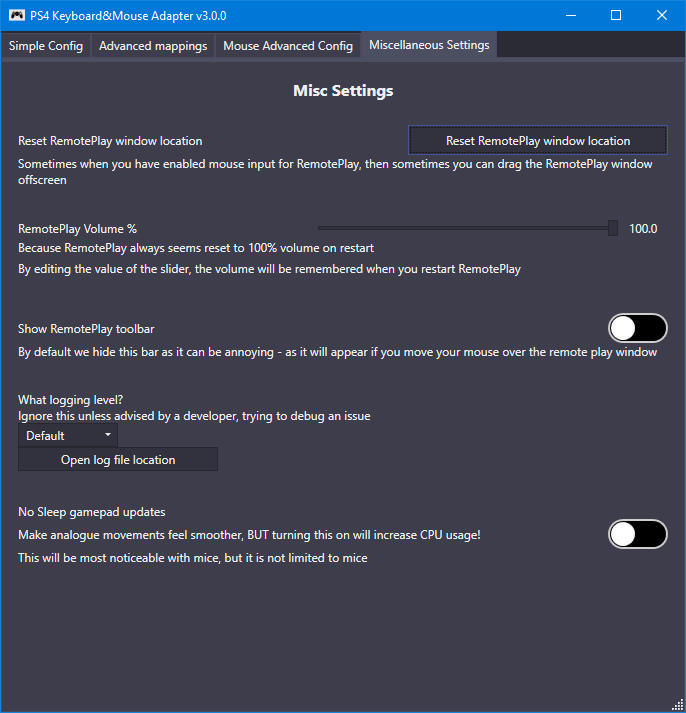
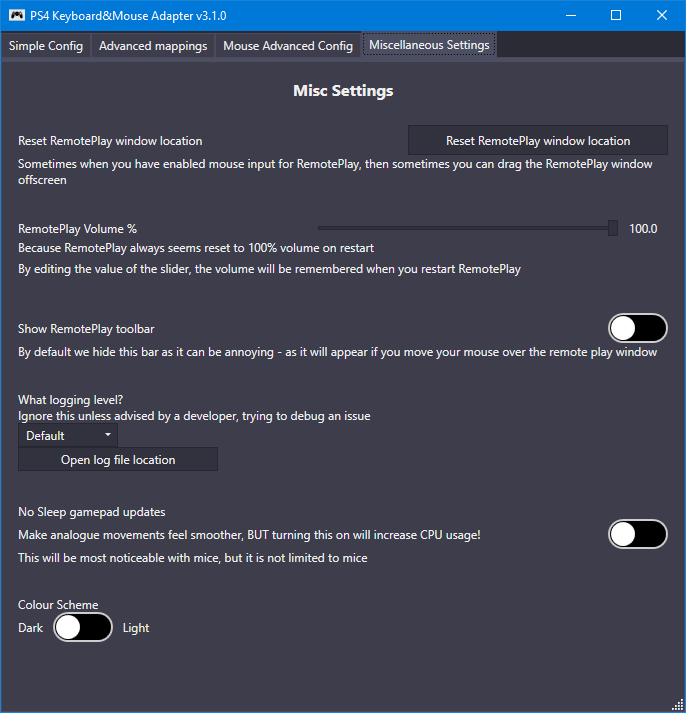
updating documentation

Changed region(s): [[0.0306, 0.8331, 0.2143, 0.9257]]

diff --git a/documentation/version-history.md b/documentation/version-history.md
@@ -1,6 +1,14 @@
 # Version History
 
 
+### v 3.1.0
+* Stuff users will appreciate
+  * Added "Colour Scheme" swapper (pick from Light mode or Dark mode). See "Miscellaneous Settings" tab
+
+* Under the hood stuff
+  * swapping c# dependency system from packages.config to PackageReference
+
+
 ### v 3.0.0
 * New method of controller emulation (ViGEm)
 
@@ -26,7 +34,7 @@
 
 
 ### v 2.2.1
-* Adding a second option for installing
+* Added a second option for installing
   * application-extract-me.zip
   * application-setup.exe
 
@@ -108,7 +116,7 @@
 * Added Keyboard mappings for right stick
 * Added mouse poll rate settings
 * Updated mouse anchoring logic so it is harder for you to click out of 'PS Remote Play' (still theoretically possible to click out of 'PS Remote Play', if you experience this issue try increasing the mouse poll rate, or file an issue). <br> We specifically recognise where 'PS Remote Play' window is and anchor to the centre of that - previously it was a random (not strictly random but it didn't have any obvious significance) point on your primary monitor
-* Added switches to let user set which stick takes input from the mouse.<br> You could technically have move sticks controlled by the mouse ... I WOULD NOT recommend both sticks bound to the mouse!
+* Added switches to let user set which stick takes input from the mouse.<br> You could technically have move both sticks controlled by the mouse ... I WOULD NOT recommend both sticks bound to the mouse!
 * Added more documentation
 * Lots of refactorings to make the code cleaner.
 

diff --git a/documentation/release-checklist.md b/documentation/release-checklist.md
@@ -1,8 +1,10 @@
 # Release checklist
 
 
-1. If you have updated any dependencies, then delete the packages folder and do a fresh build to check everything is ok.<br>
+1. Done a clean build ?<br>
  ` ./clean.sh ; ./build.sh `
+
+1. Does Debug still work?
 
 1. Have we enabled the auto update logic in ` AppUpdater.cs `
 
@@ -13,8 +15,6 @@
 1. Is this version number unique, and not previously released?
 
 1. Does the installer install to the version we expect?
-
-1. Does Debug still work?
 
 1. CPU analysis, are we still using only 1% of the CPU?
 
@@ -27,8 +27,6 @@
 1. Verify things are digitally signed
 
   * AppData\Local\PS4KeyboardAndMouseAdapter\VERSION\PS4KeyboardAndMouseAdapter.exe 
-
-  * starshinata\PS4-Keyboard-and-Mouse-Adapter\PS4KeyboardAndMouseAdapter\bin\Release\PS4KeyboardAndMouseAdapter.exe 
 
   * starshinata\PS4-Keyboard-and-Mouse-Adapter\SquirrelReleases\application-setup.exe
 
